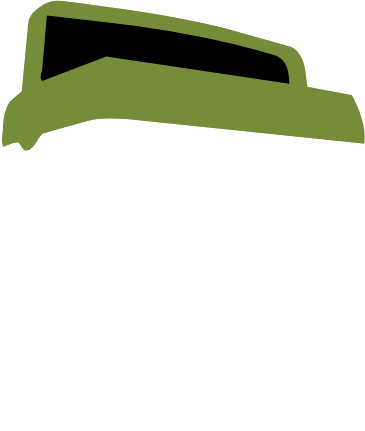
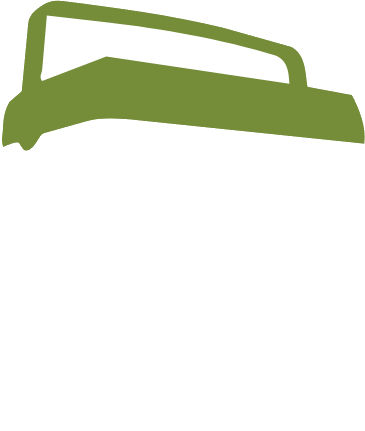
Cria adesivos regionais e ajusta a carranca, o isopor e a FAQ da LP de 2027
Adesivos: 11 ilustrações novas no estilo do guia, com elementos de várias
regiões do Brasil. A pamonha entra no depoimento do Thiago, no lugar do copo, e
os demais se espalham pela página.

Carranca: as cores ficam invertidas, como no print enviado.

Isopor: sai o preenchimento preto da alça da tampa.

FAQ: passa a ser preta, no mesmo alinhamento da dobra de patrocínio, para
continuar a dobra de cima sem a quebra para o branco.

Changed region(s): [[0.0904, 0.0302, 0.8137, 0.2111]]

diff --git a/2027/index.htm b/2027/index.htm
@@ -437,9 +437,9 @@
 
         <!-- O segredo: abre a partir do sol ou da frase em destaque -->
         <div id="segredo" class="segredo grade mundo-festa" aria-hidden="true">
-            <img src="https://raw.githubusercontent.com/eriadesign/privateday/main/2027/assets/brasilidades/cadeira-plastico.png" alt="" aria-hidden="true" class="adesivo segredo-adesivo w-20 md:w-36" style="left:6%;top:16%;rotate:-10deg">
-            <img src="https://raw.githubusercontent.com/eriadesign/privateday/main/2027/assets/brasilidades/garrafa.png" alt="" aria-hidden="true" class="adesivo segredo-adesivo h-24 md:h-44" style="right:8%;top:14%;rotate:14deg">
-            <img src="https://raw.githubusercontent.com/eriadesign/privateday/main/2027/assets/brasilidades/chinelo.png" alt="" aria-hidden="true" class="adesivo segredo-adesivo w-20 md:w-32" style="left:9%;bottom:10%;rotate:12deg">
+            <img src="https://raw.githubusercontent.com/eriadesign/privateday/main/2027/assets/brasilidades/sombrinha.png" alt="" aria-hidden="true" class="adesivo segredo-adesivo w-20 md:w-36" style="left:6%;top:16%;rotate:-10deg">
+            <img src="https://raw.githubusercontent.com/eriadesign/privateday/main/2027/assets/brasilidades/fitinha-bonfim.png" alt="" aria-hidden="true" class="adesivo segredo-adesivo h-24 md:h-44" style="right:8%;top:14%;rotate:14deg">
+            <img src="https://raw.githubusercontent.com/eriadesign/privateday/main/2027/assets/brasilidades/cordel.png" alt="" aria-hidden="true" class="adesivo segredo-adesivo w-20 md:w-36" style="left:9%;bottom:10%;rotate:-6deg">
             <img src="https://raw.githubusercontent.com/eriadesign/privateday/main/2027/assets/brasilidades/pandeiro.png" alt="" aria-hidden="true" class="adesivo segredo-adesivo w-20 md:w-36" style="right:7%;bottom:12%;rotate:-14deg">
             <p class="relative z-[2] text-xl md:text-3xl font-semibold mb-4">Festa para celebrar.</p>
             <img class="segredo-titulo mb-7" src="https://raw.githubusercontent.com/eriadesign/privateday/main/2027/assets/brasilidades/titulo-brasilidades.png" alt="Brasilidades">
@@ -491,10 +491,10 @@
             <div class="virada-cor grade mundo-festa">
                 <img src="https://raw.githubusercontent.com/eriadesign/privateday/main/2027/assets/brasilidades/sol.png" alt="" aria-hidden="true" class="adesivo virada-adesivo w-28 md:w-44" style="left:7%;top:13%;--r:-40deg">
                 <img src="https://raw.githubusercontent.com/eriadesign/privateday/main/2027/assets/brasilidades/cadeira-plastico.png" alt="" aria-hidden="true" class="adesivo virada-adesivo w-24 md:w-40" style="right:7%;top:15%;--r:30deg">
-                <img src="https://raw.githubusercontent.com/eriadesign/privateday/main/2027/assets/brasilidades/garrafa.png" alt="" aria-hidden="true" class="adesivo virada-adesivo h-28 md:h-48" style="left:14%;bottom:12%;--r:-26deg">
-                <img src="https://raw.githubusercontent.com/eriadesign/privateday/main/2027/assets/brasilidades/pandeiro.png" alt="" aria-hidden="true" class="adesivo virada-adesivo w-24 md:w-40" style="right:12%;bottom:13%;--r:34deg">
-                <img src="https://raw.githubusercontent.com/eriadesign/privateday/main/2027/assets/brasilidades/chinelo.png" alt="" aria-hidden="true" class="adesivo virada-adesivo hidden md:block w-28" style="left:42%;bottom:5%;--r:-18deg">
-                <img src="https://raw.githubusercontent.com/eriadesign/privateday/main/2027/assets/brasilidades/folha.png" alt="" aria-hidden="true" class="adesivo virada-adesivo hidden md:block w-28" style="left:40%;top:7%;--r:22deg">
+                <img src="https://raw.githubusercontent.com/eriadesign/privateday/main/2027/assets/brasilidades/berimbau.png" alt="" aria-hidden="true" class="adesivo virada-adesivo h-28 md:h-48" style="left:14%;bottom:12%;--r:-26deg">
+                <img src="https://raw.githubusercontent.com/eriadesign/privateday/main/2027/assets/brasilidades/chimarrao.png" alt="" aria-hidden="true" class="adesivo virada-adesivo w-24 md:w-36" style="right:12%;bottom:13%;--r:34deg">
+                <img src="https://raw.githubusercontent.com/eriadesign/privateday/main/2027/assets/brasilidades/caju-fruta.png" alt="" aria-hidden="true" class="adesivo virada-adesivo hidden md:block w-28" style="left:42%;bottom:5%;--r:-18deg">
+                <img src="https://raw.githubusercontent.com/eriadesign/privateday/main/2027/assets/brasilidades/vitoria-regia.png" alt="" aria-hidden="true" class="adesivo virada-adesivo hidden md:block w-36" style="left:40%;top:12%;--r:22deg">
                 <p class="relative z-[2] text-xl md:text-3xl font-semibold mb-5">a festa começa.</p>
                 <img class="virada-titulo" src="https://raw.githubusercontent.com/eriadesign/privateday/main/2027/assets/brasilidades/titulo-brasilidades.png" alt="Brasilidades">
             </div>
@@ -517,7 +517,7 @@
                 <div class="polaroid" style="width:50%;height:66%;left:0;top:6%;rotate:-6deg" data-par="-.05"><img src="https://raw.githubusercontent.com/eriadesign/privateday/main/2027/assets/brasilidades/copacabana.webp" alt="" loading="lazy"></div>
                 <div class="polaroid" style="width:44%;height:70%;right:0;top:0;rotate:5deg" data-par=".07"><img src="https://raw.githubusercontent.com/eriadesign/privateday/main/2027/assets/brasilidades/cocos.webp" alt="" loading="lazy"></div>
                 <div class="polaroid" style="width:40%;height:52%;left:28%;bottom:0;rotate:-2deg;z-index:2" data-par="-.02"><img src="https://raw.githubusercontent.com/eriadesign/privateday/main/2027/assets/brasilidades/caju.webp" alt="" loading="lazy"></div>
-                <img src="https://raw.githubusercontent.com/eriadesign/privateday/main/2027/assets/brasilidades/banqueta.png" alt="" aria-hidden="true" class="adesivo absolute h-32 md:h-40" style="left:-2%;bottom:0;rotate:-8deg;z-index:3" data-par=".1">
+                <img src="https://raw.githubusercontent.com/eriadesign/privateday/main/2027/assets/brasilidades/chapeu-cangaceiro.png" alt="" aria-hidden="true" class="adesivo absolute h-28 md:h-36" style="left:-2%;bottom:0;rotate:-8deg;z-index:3" data-par=".1">
                 <img src="https://raw.githubusercontent.com/eriadesign/privateday/main/2027/assets/brasilidades/sol.png" alt="" aria-hidden="true" class="adesivo absolute w-20 md:w-28" style="right:6%;bottom:2%;z-index:3" data-par="-.08">
             </div>
         </div>
@@ -538,7 +538,7 @@
                 <span class="plaquinha isopor-dica font-semibold text-sm">Clique para abrir</span>
                 <ul class="isopor-itens">
                     <li class="isopor-item" style="--x:-48px;--y:-92px;--g:-7deg"><img class="adesivo" src="https://raw.githubusercontent.com/eriadesign/privateday/main/2027/assets/brasilidades/garrafa.png" alt="" aria-hidden="true"><span>Open bar</span></li>
-                    <li class="isopor-item" style="--x:82px;--y:-150px;--g:3deg"><img class="adesivo" src="https://raw.githubusercontent.com/eriadesign/privateday/main/2027/assets/brasilidades/mesa-plastico.png" alt="" aria-hidden="true"><span>Open food</span></li>
+                    <li class="isopor-item" style="--x:82px;--y:-150px;--g:3deg"><img class="adesivo" src="https://raw.githubusercontent.com/eriadesign/privateday/main/2027/assets/brasilidades/caju-fruta.png" alt="" aria-hidden="true"><span>Open food</span></li>
                     <li class="isopor-item" style="--x:178px;--y:-22px;--g:8deg"><img class="adesivo" src="https://raw.githubusercontent.com/eriadesign/privateday/main/2027/assets/brasilidades/chinelo.png" alt="" aria-hidden="true"><span>Dress code temático</span></li>
                 </ul>
                 <div id="isopor-botao" role="button" tabindex="0" aria-expanded="false" aria-controls="isopor" aria-label="Abrir o isopor">
@@ -552,7 +552,7 @@
     <!-- Faixa com os elementos -->
     <div class="faixa-rola" aria-hidden="true">
         <div class="faixa-trilho">
-            <img class="frase" src="https://raw.githubusercontent.com/eriadesign/privateday/main/2027/assets/brasilidades/meu-sangue-latino.png" alt=""><img src="https://raw.githubusercontent.com/eriadesign/privateday/main/2027/assets/brasilidades/chinelo.png" alt=""><img src="https://raw.githubusercontent.com/eriadesign/privateday/main/2027/assets/brasilidades/copo.png" alt=""><img src="https://raw.githubusercontent.com/eriadesign/privateday/main/2027/assets/brasilidades/cadeira-bistro.png" alt=""><img src="https://raw.githubusercontent.com/eriadesign/privateday/main/2027/assets/brasilidades/sol.png" alt=""><img class="frase" src="https://raw.githubusercontent.com/eriadesign/privateday/main/2027/assets/brasilidades/meu-sangue-latino.png" alt=""><img src="https://raw.githubusercontent.com/eriadesign/privateday/main/2027/assets/brasilidades/pandeiro.png" alt=""><img src="https://raw.githubusercontent.com/eriadesign/privateday/main/2027/assets/brasilidades/brasil.png" alt=""><img src="https://raw.githubusercontent.com/eriadesign/privateday/main/2027/assets/brasilidades/garrafa.png" alt=""><img src="https://raw.githubusercontent.com/eriadesign/privateday/main/2027/assets/brasilidades/folha.png" alt=""><img src="https://raw.githubusercontent.com/eriadesign/privateday/main/2027/assets/brasilidades/mesa-dobravel.png" alt=""><img class="frase" src="https://raw.githubusercontent.com/eriadesign/privateday/main/2027/assets/brasilidades/meu-sangue-latino.png" alt=""><img src="https://raw.githubusercontent.com/eriadesign/privateday/main/2027/assets/brasilidades/chinelo.png" alt=""><img src="https://raw.githubusercontent.com/eriadesign/privateday/main/2027/assets/brasilidades/copo.png" alt=""><img src="https://raw.githubusercontent.com/eriadesign/privateday/main/2027/assets/brasilidades/cadeira-bistro.png" alt=""><img src="https://raw.githubusercontent.com/eriadesign/privateday/main/2027/assets/brasilidades/sol.png" alt=""><img class="frase" src="https://raw.githubusercontent.com/eriadesign/privateday/main/2027/assets/brasilidades/meu-sangue-latino.png" alt=""><img src="https://raw.githubusercontent.com/eriadesign/privateday/main/2027/assets/brasilidades/pandeiro.png" alt=""><img src="https://raw.githubusercontent.com/eriadesign/privateday/main/2027/assets/brasilidades/brasil.png" alt=""><img src="https://raw.githubusercontent.com/eriadesign/privateday/main/2027/assets/brasilidades/garrafa.png" alt=""><img src="https://raw.githubusercontent.com/eriadesign/privateday/main/2027/assets/brasilidades/folha.png" alt=""><img src="https://raw.githubusercontent.com/eriadesign/privateday/main/2027/assets/brasilidades/mesa-dobravel.png" alt="">
+            <img class="frase" src="https://raw.githubusercontent.com/eriadesign/privateday/main/2027/assets/brasilidades/meu-sangue-latino.png" alt=""><img src="https://raw.githubusercontent.com/eriadesign/privateday/main/2027/assets/brasilidades/chinelo.png" alt=""><img src="https://raw.githubusercontent.com/eriadesign/privateday/main/2027/assets/brasilidades/sombrinha.png" alt=""><img src="https://raw.githubusercontent.com/eriadesign/privateday/main/2027/assets/brasilidades/pamonha.png" alt=""><img src="https://raw.githubusercontent.com/eriadesign/privateday/main/2027/assets/brasilidades/sol.png" alt=""><img class="frase" src="https://raw.githubusercontent.com/eriadesign/privateday/main/2027/assets/brasilidades/meu-sangue-latino.png" alt=""><img src="https://raw.githubusercontent.com/eriadesign/privateday/main/2027/assets/brasilidades/pandeiro.png" alt=""><img src="https://raw.githubusercontent.com/eriadesign/privateday/main/2027/assets/brasilidades/cordel.png" alt=""><img src="https://raw.githubusercontent.com/eriadesign/privateday/main/2027/assets/brasilidades/brasil.png" alt=""><img src="https://raw.githubusercontent.com/eriadesign/privateday/main/2027/assets/brasilidades/vitoria-regia.png" alt=""><img src="https://raw.githubusercontent.com/eriadesign/privateday/main/2027/assets/brasilidades/garrafa.png" alt=""><img class="frase" src="https://raw.githubusercontent.com/eriadesign/privateday/main/2027/assets/brasilidades/meu-sangue-latino.png" alt=""><img src="https://raw.githubusercontent.com/eriadesign/privateday/main/2027/assets/brasilidades/fitinha-bonfim.png" alt=""><img src="https://raw.githubusercontent.com/eriadesign/privateday/main/2027/assets/brasilidades/sanfona.png" alt=""><img src="https://raw.githubusercontent.com/eriadesign/privateday/main/2027/assets/brasilidades/caju-fruta.png" alt=""><img src="https://raw.githubusercontent.com/eriadesign/privateday/main/2027/assets/brasilidades/folha.png" alt=""><img src="https://raw.githubusercontent.com/eriadesign/privateday/main/2027/assets/brasilidades/filtro-barro.png" alt=""><img class="frase" src="https://raw.githubusercontent.com/eriadesign/privateday/main/2027/assets/brasilidades/meu-sangue-latino.png" alt=""><img src="https://raw.githubusercontent.com/eriadesign/privateday/main/2027/assets/brasilidades/chinelo.png" alt=""><img src="https://raw.githubusercontent.com/eriadesign/privateday/main/2027/assets/brasilidades/sombrinha.png" alt=""><img src="https://raw.githubusercontent.com/eriadesign/privateday/main/2027/assets/brasilidades/pamonha.png" alt=""><img src="https://raw.githubusercontent.com/eriadesign/privateday/main/2027/assets/brasilidades/sol.png" alt=""><img class="frase" src="https://raw.githubusercontent.com/eriadesign/privateday/main/2027/assets/brasilidades/meu-sangue-latino.png" alt=""><img src="https://raw.githubusercontent.com/eriadesign/privateday/main/2027/assets/brasilidades/pandeiro.png" alt=""><img src="https://raw.githubusercontent.com/eriadesign/privateday/main/2027/assets/brasilidades/cordel.png" alt=""><img src="https://raw.githubusercontent.com/eriadesign/privateday/main/2027/assets/brasilidades/brasil.png" alt=""><img src="https://raw.githubusercontent.com/eriadesign/privateday/main/2027/assets/brasilidades/vitoria-regia.png" alt=""><img src="https://raw.githubusercontent.com/eriadesign/privateday/main/2027/assets/brasilidades/garrafa.png" alt=""><img class="frase" src="https://raw.githubusercontent.com/eriadesign/privateday/main/2027/assets/brasilidades/meu-sangue-latino.png" alt=""><img src="https://raw.githubusercontent.com/eriadesign/privateday/main/2027/assets/brasilidades/fitinha-bonfim.png" alt=""><img src="https://raw.githubusercontent.com/eriadesign/privateday/main/2027/assets/brasilidades/sanfona.png" alt=""><img src="https://raw.githubusercontent.com/eriadesign/privateday/main/2027/assets/brasilidades/caju-fruta.png" alt=""><img src="https://raw.githubusercontent.com/eriadesign/privateday/main/2027/assets/brasilidades/folha.png" alt=""><img src="https://raw.githubusercontent.com/eriadesign/privateday/main/2027/assets/brasilidades/filtro-barro.png" alt="">
         </div>
     </div>
 
@@ -565,7 +565,7 @@
                 <div class="aspect-video w-full rounded-3xl overflow-hidden relative bg-black border-[3px] border-cacau" style="box-shadow:8px 9px 0 var(--cacau)">
                     <iframe class="absolute inset-0 w-full h-full" src="https://www.youtube.com/embed/vkjfSa8HwGg" title="AUVP Private Day" frameborder="0" allow="accelerometer; autoplay; clipboard-write; encrypted-media; gyroscope; picture-in-picture; web-share" referrerpolicy="strict-origin-when-cross-origin" allowfullscreen loading="lazy"></iframe>
                 </div>
-                <img src="https://raw.githubusercontent.com/eriadesign/privateday/main/2027/assets/brasilidades/cadeira-dobravel.png" alt="" aria-hidden="true" class="adesivo hidden md:block absolute -left-16 -bottom-10 h-40 -rotate-6">
+                <img src="https://raw.githubusercontent.com/eriadesign/privateday/main/2027/assets/brasilidades/sanfona.png" alt="" aria-hidden="true" class="adesivo hidden md:block absolute -left-16 -bottom-10 h-36 -rotate-6">
                 <img src="https://raw.githubusercontent.com/eriadesign/privateday/main/2027/assets/brasilidades/carranca.png" alt="" aria-hidden="true" class="adesivo hidden md:block absolute -right-12 -top-14 h-44 rotate-6">
             </div>
         </div>
@@ -579,22 +579,22 @@
             <h2 class="titulo-festa text-4xl md:text-6xl max-w-4xl mb-16 surge">Quem foi, não guardou segredo</h2>
             <div class="grid grid-cols-1 sm:grid-cols-2 lg:grid-cols-4 gap-x-6 gap-y-14">
                 <figure class="card-depo surge" style="rotate:-1.5deg">
-                    <img src="https://raw.githubusercontent.com/eriadesign/privateday/main/2027/assets/brasilidades/banqueta.png" alt="" aria-hidden="true" class="adesivo ">
+                    <img src="https://raw.githubusercontent.com/eriadesign/privateday/main/2027/assets/brasilidades/fitinha-bonfim.png" alt="" aria-hidden="true" class="adesivo " style="height:100px;top:-52px">
                     <blockquote class="leading-relaxed flex-grow">“De repente, passou a valer tudo, tanto que já comprei na mesma semana o ingresso do ano seguinte, na confiança.”</blockquote>
                     <figcaption class="titulo-festa text-2xl mt-5">Pietro</figcaption>
                 </figure>
                 <figure class="card-depo surge lg:mt-8" style="rotate:1.5deg;--d:.08s">
-                    <img src="https://raw.githubusercontent.com/eriadesign/privateday/main/2027/assets/brasilidades/cadeira-plastico.png" alt="" aria-hidden="true" class="adesivo ">
+                    <img src="https://raw.githubusercontent.com/eriadesign/privateday/main/2027/assets/brasilidades/chimarrao.png" alt="" aria-hidden="true" class="adesivo ">
                     <blockquote class="leading-relaxed flex-grow">“Na primeira vez, estava apreensivo também, mas o pessoal é todo muito receptivo. No segundo ano, já era sucesso demais.”</blockquote>
                     <figcaption class="titulo-festa text-2xl mt-5">Henrique</figcaption>
                 </figure>
                 <figure class="card-depo surge" style="rotate:-1deg;--d:.16s">
-                    <img src="https://raw.githubusercontent.com/eriadesign/privateday/main/2027/assets/brasilidades/copo.png" alt="" aria-hidden="true" class="adesivo ">
+                    <img src="https://raw.githubusercontent.com/eriadesign/privateday/main/2027/assets/brasilidades/pamonha.png" alt="" aria-hidden="true" class="adesivo ">
                     <blockquote class="leading-relaxed flex-grow">“Quem ainda está na dúvida: só vai. É memória, amizade e história pra vida.”</blockquote>
                     <figcaption class="titulo-festa text-2xl mt-5">Thiago</figcaption>
                 </figure>
                 <figure class="card-depo surge lg:mt-8" style="rotate:2deg;--d:.24s">
-                    <img src="https://raw.githubusercontent.com/eriadesign/privateday/main/2027/assets/brasilidades/mesa-dobravel.png" alt="" aria-hidden="true" class="adesivo ">
+                    <img src="https://raw.githubusercontent.com/eriadesign/privateday/main/2027/assets/brasilidades/sombrinha.png" alt="" aria-hidden="true" class="adesivo ">
                     <div class="flex-grow">
                         <blockquote class="leading-relaxed">“O que acontece em Vegas, fica em Vegas.”</blockquote>
                         <p class="text-sm opacity-70 italic mt-2">Sobre a festa, ela não quis contar mais.</p>
@@ -657,81 +657,83 @@
     </section>
 
     <!-- FAQ -->
-    <section id="faq" class="bg-white text-black py-20 md:py-28" data-tema="sobrio">
-        <div class="max-w-4xl mx-auto px-5 md:px-8">
-            <h2 class="titulo-palestra text-3xl md:text-5xl mb-10">Dúvidas frequentes</h2>
-            <div class="space-y-6">
-                <details class="group border-b border-black/15 pb-4" open>
-                        <summary class="font-medium text-black text-lg md:text-xl cursor-pointer list-none flex justify-between items-center outline-none">
+    <section id="faq" class="bg-black text-white pb-20 md:pb-28" data-tema="sobrio">
+        <div class="max-w-7xl mx-auto px-5 md:px-8">
+            <div class="border-t border-white/20 pt-10 md:pt-14 grid lg:grid-cols-3 gap-8 lg:gap-12">
+            <h2 class="titulo-palestra text-3xl md:text-5xl text-white">Dúvidas frequentes</h2>
+            <div class="space-y-6 lg:col-span-2">
+                <details class="group border-b border-white/20 pb-4" open>
+                        <summary class="font-medium text-white text-lg md:text-xl cursor-pointer list-none flex justify-between items-center outline-none">
                             <span>O que é o AUVP Private Day?</span>
-                            <span class="transition-transform duration-300 group-open:rotate-180 text-black">
+                            <span class="transition-transform duration-300 group-open:rotate-180 text-white">
                                 <i class="ph ph-caret-down text-2xl"></i>
                             </span>
                         </summary>
-                        <p class="text-black/70 font-light mt-4 leading-relaxed text-sm md:text-base">
+                        <p class="text-white/70 font-light mt-4 leading-relaxed text-sm md:text-base">
                             Para quem não faz a menor ideia do que seja, todos os anos reunimos os membros da AUVP para tomar drinks, dar risadas e viver a experiência da comunidade presencialmente. Este ano, serão dois dias de palestras com grandes nomes do mercado financeiro. E, um dia com nossa tradicional festa.
                         </p>
                     </details>
 
-                    <details class="group border-b border-black/15 pb-4">
-                        <summary class="font-medium text-black text-lg md:text-xl cursor-pointer list-none flex justify-between items-center outline-none">
+                    <details class="group border-b border-white/20 pb-4">
+                        <summary class="font-medium text-white text-lg md:text-xl cursor-pointer list-none flex justify-between items-center outline-none">
                             <span>Quando e que horas será o evento?</span>
-                            <span class="transition-transform duration-300 group-open:rotate-180 text-black">
+                            <span class="transition-transform duration-300 group-open:rotate-180 text-white">
                                 <i class="ph ph-caret-down text-2xl"></i>
                             </span>
                         </summary>
-                        <p class="text-black/70 font-light mt-4 leading-relaxed text-sm md:text-base">
+                        <p class="text-white/70 font-light mt-4 leading-relaxed text-sm md:text-base">
                             As datas e os horários da edição de 2027 serão divulgados em breve.
                         </p>
                     </details>
 
-                    <details class="group border-b border-black/15 pb-4">
-                        <summary class="font-medium text-black text-lg md:text-xl cursor-pointer list-none flex justify-between items-center outline-none">
+                    <details class="group border-b border-white/20 pb-4">
+                        <summary class="font-medium text-white text-lg md:text-xl cursor-pointer list-none flex justify-between items-center outline-none">
                             <span>Qual o local do evento?</span>
-                            <span class="transition-transform duration-300 group-open:rotate-180 text-black">
+                            <span class="transition-transform duration-300 group-open:rotate-180 text-white">
                                 <i class="ph ph-caret-down text-2xl"></i>
                             </span>
                         </summary>
-                        <p class="text-black/70 font-light mt-4 leading-relaxed text-sm md:text-base">
+                        <p class="text-white/70 font-light mt-4 leading-relaxed text-sm md:text-base">
                             O local da edição de 2027 será divulgado em breve. Ao comprar os ingressos você receberá o endereço completo com as informações específicas.
                         </p>
                     </details>
 
-                    <details class="group border-b border-black/15 pb-4">
-                        <summary class="font-medium text-black text-lg md:text-xl cursor-pointer list-none flex justify-between items-center outline-none">
+                    <details class="group border-b border-white/20 pb-4">
+                        <summary class="font-medium text-white text-lg md:text-xl cursor-pointer list-none flex justify-between items-center outline-none">
                             <span>Que roupa devo usar?</span>
-                            <span class="transition-transform duration-300 group-open:rotate-180 text-black">
+                            <span class="transition-transform duration-300 group-open:rotate-180 text-white">
                                 <i class="ph ph-caret-down text-2xl"></i>
                             </span>
                         </summary>
-                        <p class="text-black/70 font-light mt-4 leading-relaxed text-sm md:text-base">
+                        <p class="text-white/70 font-light mt-4 leading-relaxed text-sm md:text-base">
                             Assim como nos anos anteriores, teremos um dress code. Este ano, para a festa, o tema oficial é Brasilidades, enviaremos documentos com inspirações e referências para que todos consigam se adaptar de acordo com sua realidade.
                         </p>
                     </details>
 
-                    <details class="group border-b border-black/15 pb-4">
-                        <summary class="font-medium text-black text-lg md:text-xl cursor-pointer list-none flex justify-between items-center outline-none">
+                    <details class="group border-b border-white/20 pb-4">
+                        <summary class="font-medium text-white text-lg md:text-xl cursor-pointer list-none flex justify-between items-center outline-none">
                             <span>O evento será open bar?</span>
-                            <span class="transition-transform duration-300 group-open:rotate-180 text-black">
+                            <span class="transition-transform duration-300 group-open:rotate-180 text-white">
                                 <i class="ph ph-caret-down text-2xl"></i>
                             </span>
                         </summary>
-                        <p class="text-black/70 font-light mt-4 leading-relaxed text-sm md:text-base">
+                        <p class="text-white/70 font-light mt-4 leading-relaxed text-sm md:text-base">
                             Durante os dois dias de palestras será servido coffee break para os participantes. Já a festa do Private Day contará com open bar e open food, proporcionando uma experiência completa para todos.
                         </p>
                     </details>
 
-                    <details class="group border-b border-black/15 pb-4">
-                        <summary class="font-medium text-black text-lg md:text-xl cursor-pointer list-none flex justify-between items-center outline-none">
+                    <details class="group border-b border-white/20 pb-4">
+                        <summary class="font-medium text-white text-lg md:text-xl cursor-pointer list-none flex justify-between items-center outline-none">
                             <span>Posso levar acompanhantes?</span>
-                            <span class="transition-transform duration-300 group-open:rotate-180 text-black">
+                            <span class="transition-transform duration-300 group-open:rotate-180 text-white">
                                 <i class="ph ph-caret-down text-2xl"></i>
                             </span>
                         </summary>
-                        <p class="text-black/70 font-light mt-4 leading-relaxed text-sm md:text-base">
-                            Sim! Você pode levar quantos acompanhantes quiser. Apenas certifique-se de preencher os <strong class="font-medium text-black">dados dos convidados</strong> no momento da compra, pois os ingressos são nominais e individuais.
+                        <p class="text-white/70 font-light mt-4 leading-relaxed text-sm md:text-base">
+                            Sim! Você pode levar quantos acompanhantes quiser. Apenas certifique-se de preencher os <strong class="font-medium text-white">dados dos convidados</strong> no momento da compra, pois os ingressos são nominais e individuais.
                         </p>
                     </details>
+            </div>
             </div>
         </div>
     </section>

diff --git a/README.md b/README.md
@@ -46,7 +46,7 @@ A landing de 2027 é dividida em dois mundos, seguindo o guia de identidade:
 
 Para editar, as cores estão em `tailwind.config` (`mato`, `mar`, `areia`, `canario`, `caju`, `cacau`) e as fontes em `--fonte-*`, no começo de `2027/index.htm`. Pontos a preencher estão marcados no código com `TROCAR`.
 
-Os elementos, as fotos do guia e `titulo-brasilidades.png`, o título em imagem, estão em `2027/assets/brasilidades/`.
+Os elementos, as fotos do guia e `titulo-brasilidades.png`, o título em imagem, estão em `2027/assets/brasilidades/`. Além dos elementos do guia, a pasta tem adesivos regionais criados para a página: `pamonha`, `fitinha-bonfim`, `cordel`, `berimbau`, `sombrinha`, `chapeu-cangaceiro`, `chimarrao`, `caju-fruta`, `sanfona`, `vitoria-regia` e `filtro-barro`.
 
 Nos títulos da festa, evite as letras C e Ç: na Oferta do Dia, o C se lê como L.
 
